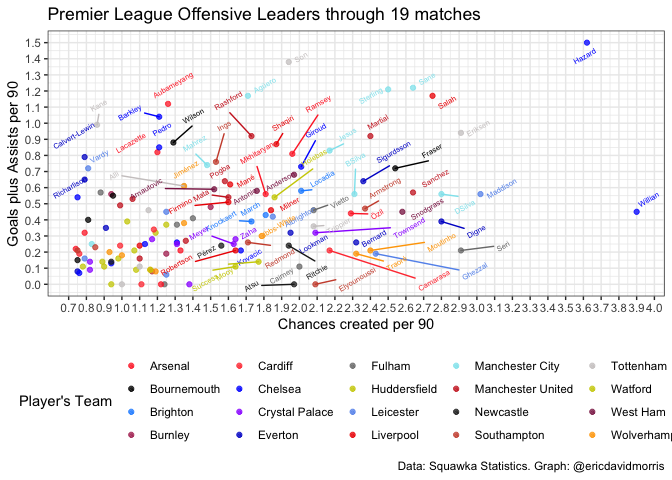
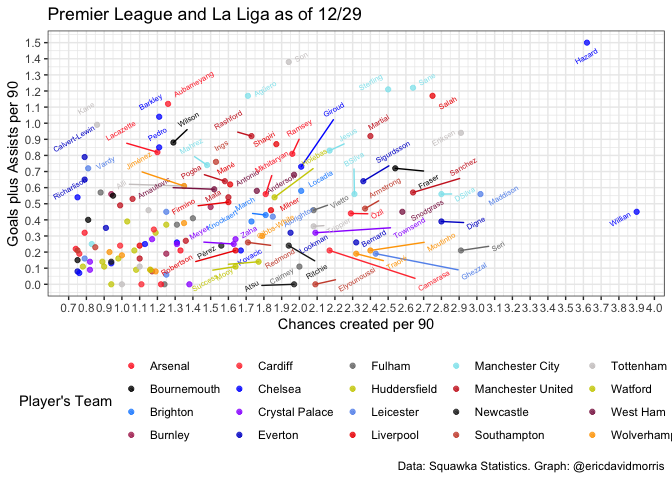
Added a merged chart

diff --git a/EDA.md b/EDA.md
@@ -163,7 +163,7 @@ epl_stats %>%
                                 "Watford" = "yellow3",       
                                 "West Ham" = "violetred4",      
                                 "Wolverhampton" = "orange1")) + 
-  labs(title = "Premier League Offensive Leaders through 19 matches", 
+  labs(title = "Premier League and La Liga as of 12/29", 
        y = "Goals plus Assists per 90", 
        x = "Chances created per 90", 
        color = "Player's Team",
@@ -175,3 +175,27 @@ epl_stats %>%
 ```
 
 ![](EDA_files/figure-markdown_github/EPL%20Chart-1.png)
+
+EPL and La Liga merged stats
+----------------------------
+
+``` r
+merged = 
+  bind_rows(epl_stats, liga_stats)
+
+merged %>% 
+  ggplot(aes(x = chances_created, y = goalsplusassists, color = league)) +
+  geom_point(alpha = 0.75) +
+  geom_text_repel(aes(label = ifelse(goalsplusassists > 0.6, player, ifelse(chances_created > 1.7, player, ''))), angle = 30, size = 2) +
+  labs(title = "Premier League and La Liga Creators as of 12/29", 
+       y = "Goals plus Assists per 90", 
+       x = "Chances created per 90", 
+       color = "Player's Team",
+       caption = "Data: Squawka Statistics. Graph: @ericdavidmorris") + 
+  scale_x_continuous(breaks = seq(0.70, 4.00, 0.10)) + 
+  scale_y_continuous(breaks = seq(0, 2.10, 0.10)) + 
+  theme_bw() +
+  theme(legend.position = "bottom") 
+```
+
+![](EDA_files/figure-markdown_github/unnamed-chunk-1-1.png)
